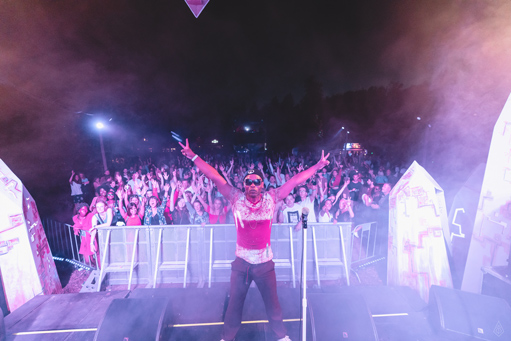
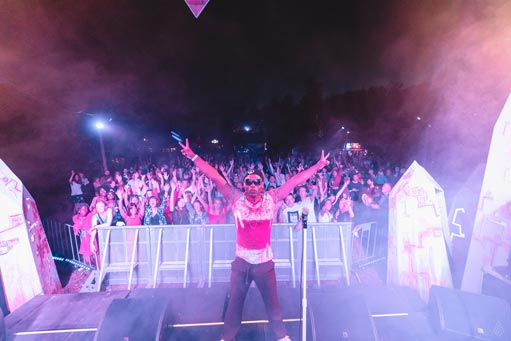
image optimization
better page load time now! with optimized images

diff --git a/artists.html b/artists.html
@@ -97,7 +97,7 @@
                 <div class="col-12 col-sm-6 col-lg-4 order-1">
                     <!--- SANDY B --->
                     <div class="artist-img">
-                        <img src="img/sandyb1.png" alt="Sandy B">
+                        <img src="img/sandyb1.jpg" alt="Sandy B">
                     </div>
                     <div class="row">
                         <div class="col-12 name-box">
@@ -117,7 +117,7 @@
                 <div class="col-12 col-sm-6 col-lg-4 order-3 order-sm-2 blok">
                     <!-- SIMONE AHA -->
                     <div class="artist-img">
-                        <img src="img/simoneaha1.png" alt="Simone Ahá">
+                        <img src="img/simoneaha1.jpg" alt="Simone Ahá">
                     </div>
                     <div class="row">
                         <div class="col-12 name-box">
@@ -170,7 +170,7 @@
                                     </article>
                                 </div>
                                 <div class="col-12 col-md-4">
-                                    <img src="img/sandyb2.png" alt="Sandy B" class="info-img">
+                                    <img src="img/sandyb2.jpg" alt="Sandy B" class="info-img">
                                     <div class="zigzag-artist">
                                     </div>
                                 </div>
@@ -208,7 +208,7 @@
                                     </article>
                                 </div>
                                 <div class="col-12 col-md-4">
-                                    <img src="img/simoneaha.png" alt="Simone Ahá" class="info-img">
+                                    <img src="img/simoneaha.jpg" alt="Simone Ahá" class="info-img">
                                     <div class="zigzag-artist">
                                     </div>
                                 </div>

diff --git a/about.html b/about.html
@@ -83,7 +83,7 @@
             <div class="row justify-content-end">
                 <div class="col-12 col-md-6 orange-box-about">
                     <div class="col-12 col-md-11 offset-md-1 img-3">
-                        <img src="img/img-3.png" class="img-fluid" alt="Studio">
+                        <img src="img/img-3.jpg" class="img-fluid" alt="Studio">
                     </div>
                 </div>
             </div>
@@ -113,7 +113,7 @@
         <div class="container">
             <div class="row">
                 <div class="col-12 col-md-5">
-                    <img src="img/img-4.png" class="img-fluid img-box-vr" alt="Studio equipment">
+                    <img src="img/img-4.jpg" class="img-fluid img-box-vr" alt="Studio equipment">
                 </div>
                 <div class="col-12 col-md-7">
                     <div class="col-12 zigzag-vr"></div>
@@ -159,7 +159,7 @@
                 <div class="col-12 col-md-4 offset-md-1">
                     <div class="zigzag-qhum"></div>
                     <div class="orange-box-qhum"><div class="col-2 qhum-zigzag"></div></div>
-                    <img src="img/img-5.png" class="img-fluid img-box" alt="Studio">
+                    <img src="img/img-5.jpg" class="img-fluid img-box" alt="Studio">
                 </div>
             </div>
         </div>

diff --git a/index.html b/index.html
@@ -104,7 +104,7 @@
                 <div class="row">
                     <div class="col-12 col-md-4">
                         <div class="album-cover">
-                            <img src="img/album-cover.png" alt="Qhum Qhaks album cover" />
+                            <img src="img/album-cover.jpg" alt="Qhum Qhaks album cover" />
                         </div>
                     </div>
                     <div class="col-12 col-md-8">

diff --git a/records.html b/records.html
@@ -90,7 +90,7 @@
             <div class="row">
                 <div class="col-12 col-sm-6 col-lg-4">
                     <div class="artist-img">
-                        <img src="img/album-cover.png" alt="Qhum Qhaks">
+                        <img src="img/album-cover.jpg" alt="Qhum Qhaks">
                     </div>
                     <div class="row">
                         <div class="col-12 rm-box">

diff --git a/qhum-qhaks.html b/qhum-qhaks.html
@@ -88,7 +88,7 @@
             <div class="row">
                  <div class="col-12 col-md-4">
                         <div class="album-cover">
-                            <img src="img/album-cover.png" />
+                            <img src="img/album-cover.jpg" />
                         </div>
                     </div>
                 <div class="col-12 col-md-8">
